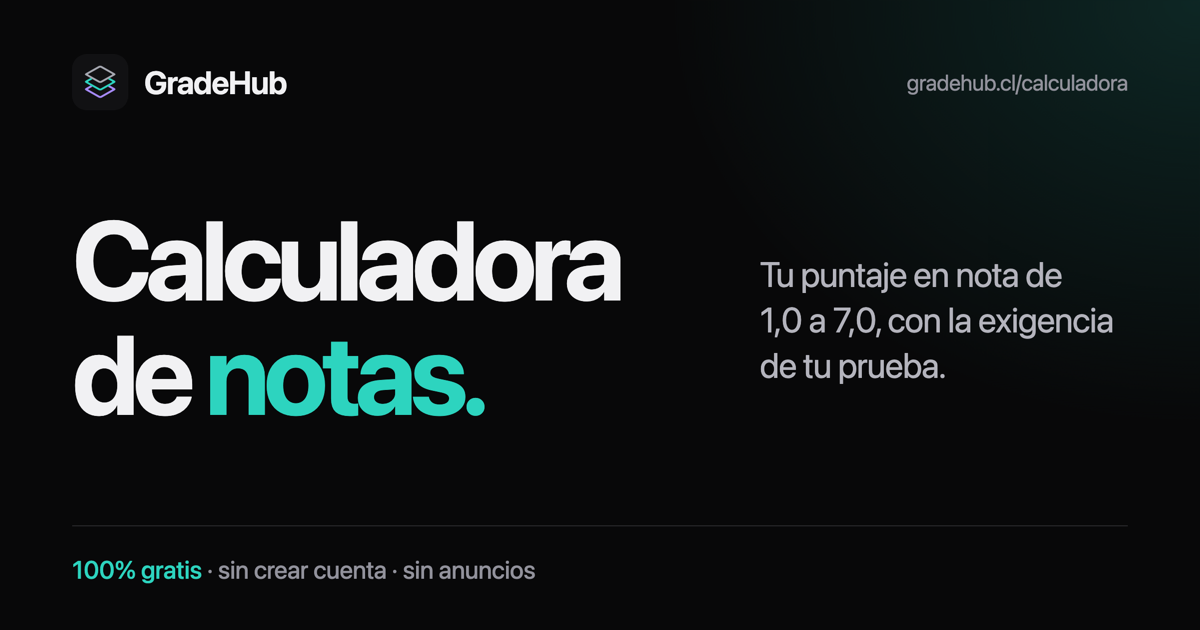
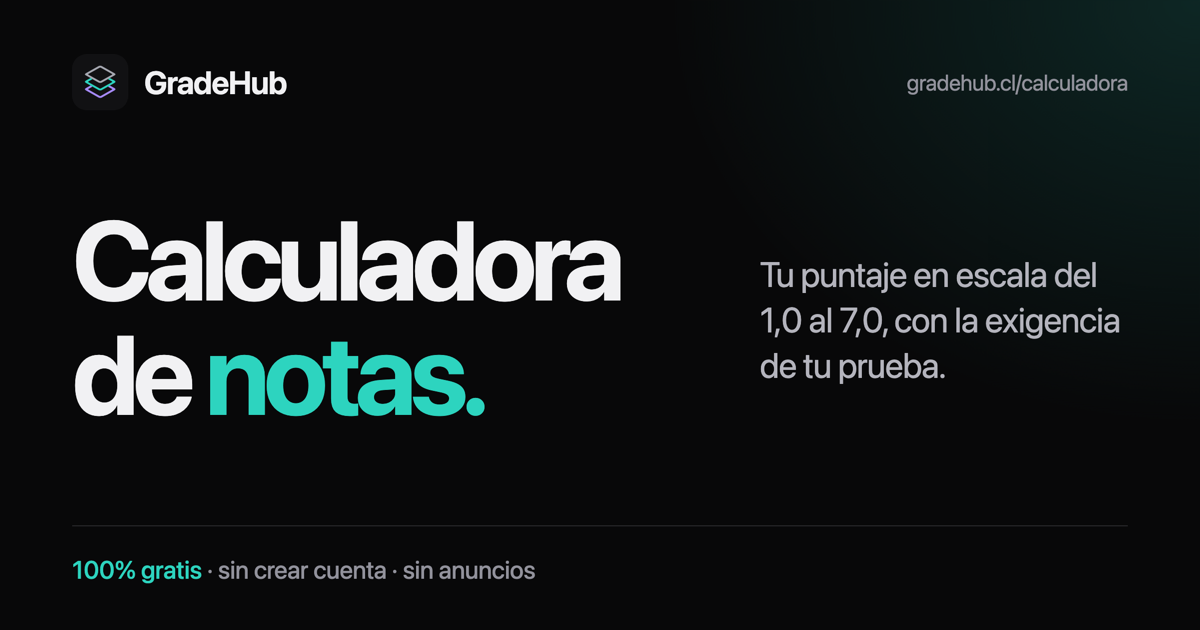
Tarjeta: "en escala del 1,0 al 7,0"

Changed region(s): [[0.6783, 0.4222, 0.9558, 0.5429]]

diff --git a/bin/og-calculadora.html b/bin/og-calculadora.html
@@ -66,7 +66,7 @@ Este HTML es fuente de diseño offline; bin/ ya está excluido de dist/.
     </header>
     <section class="story">
       <h1><span>Calculadora</span><span>de <em>notas.</em></span></h1>
-      <p class="description">Tu puntaje en nota de 1,0&nbsp;a&nbsp;7,0, con la exigencia de tu prueba.</p>
+      <p class="description">Tu puntaje en escala del 1,0&nbsp;al&nbsp;7,0, con la exigencia de tu prueba.</p>
     </section>
     <footer class="footer"><p class="claim"><strong>100% gratis</strong> · sin crear cuenta · sin anuncios</p></footer>
   </main>
